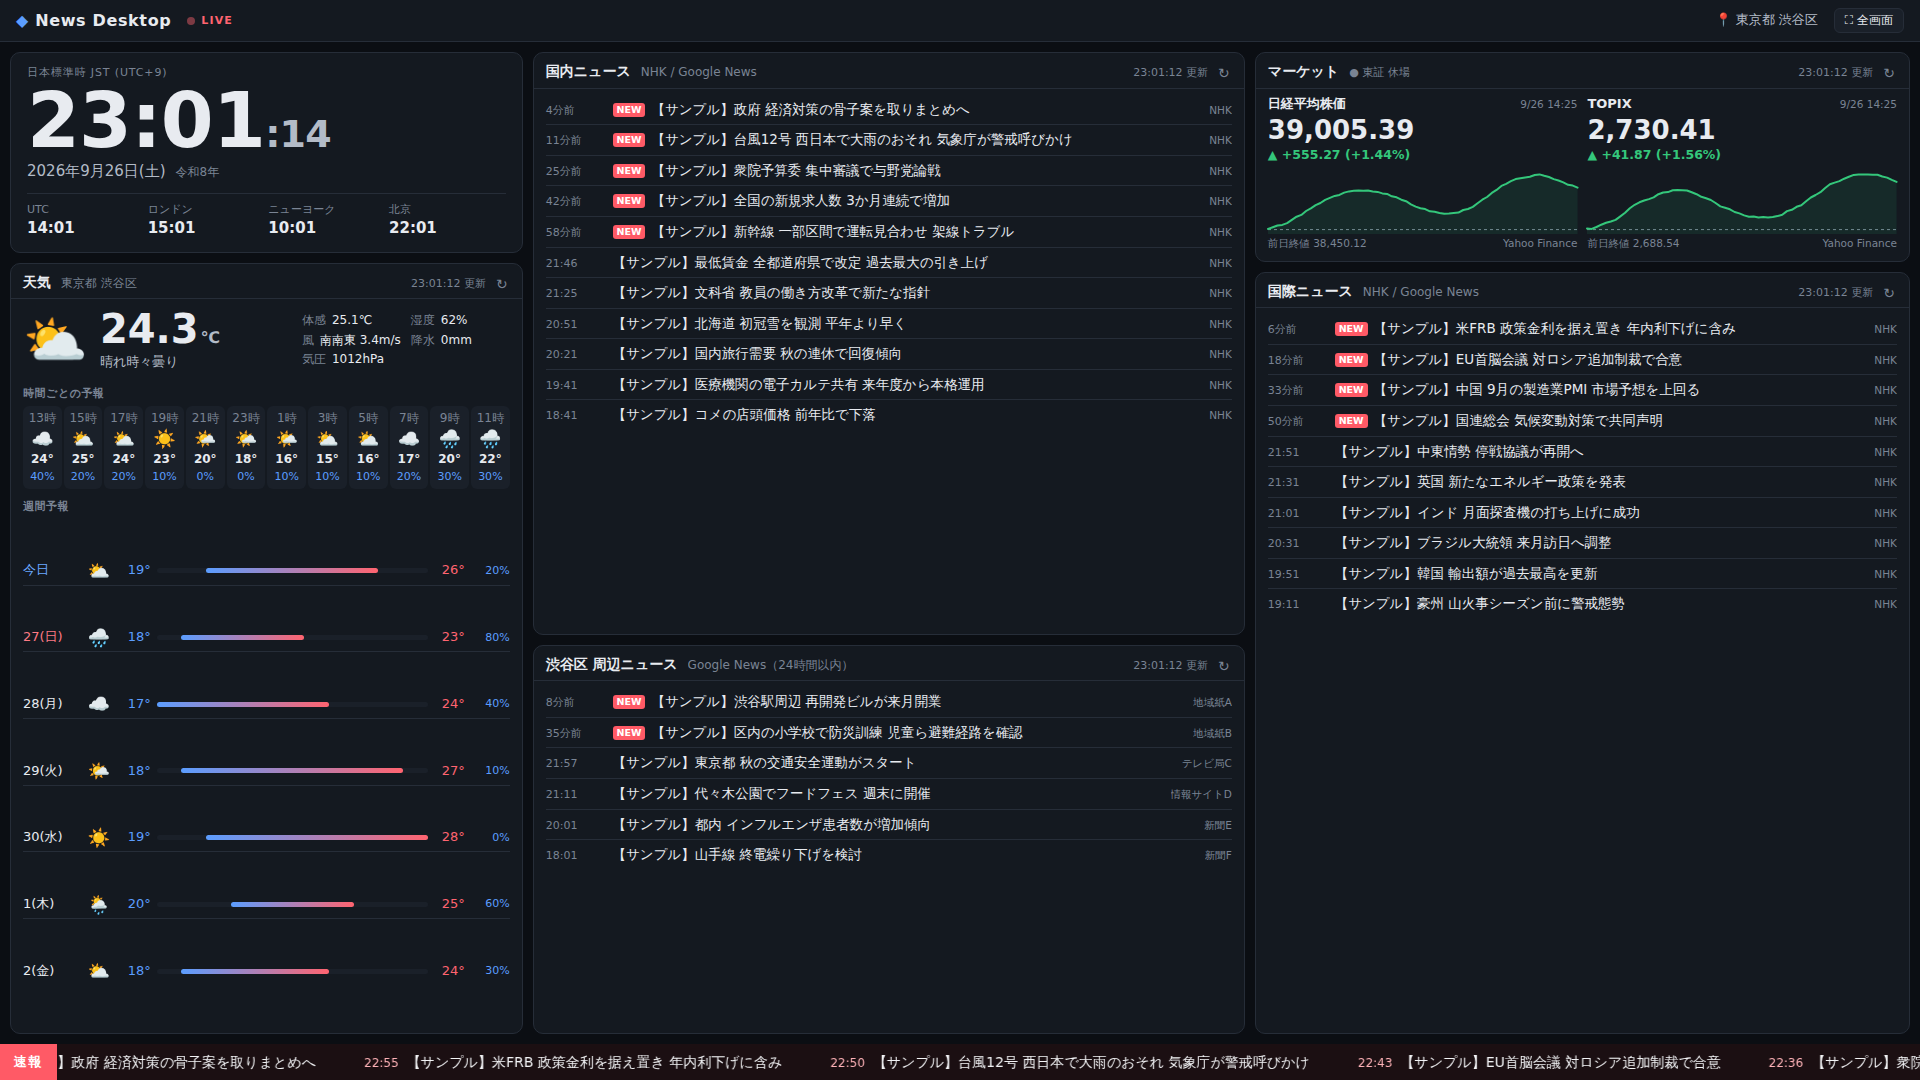
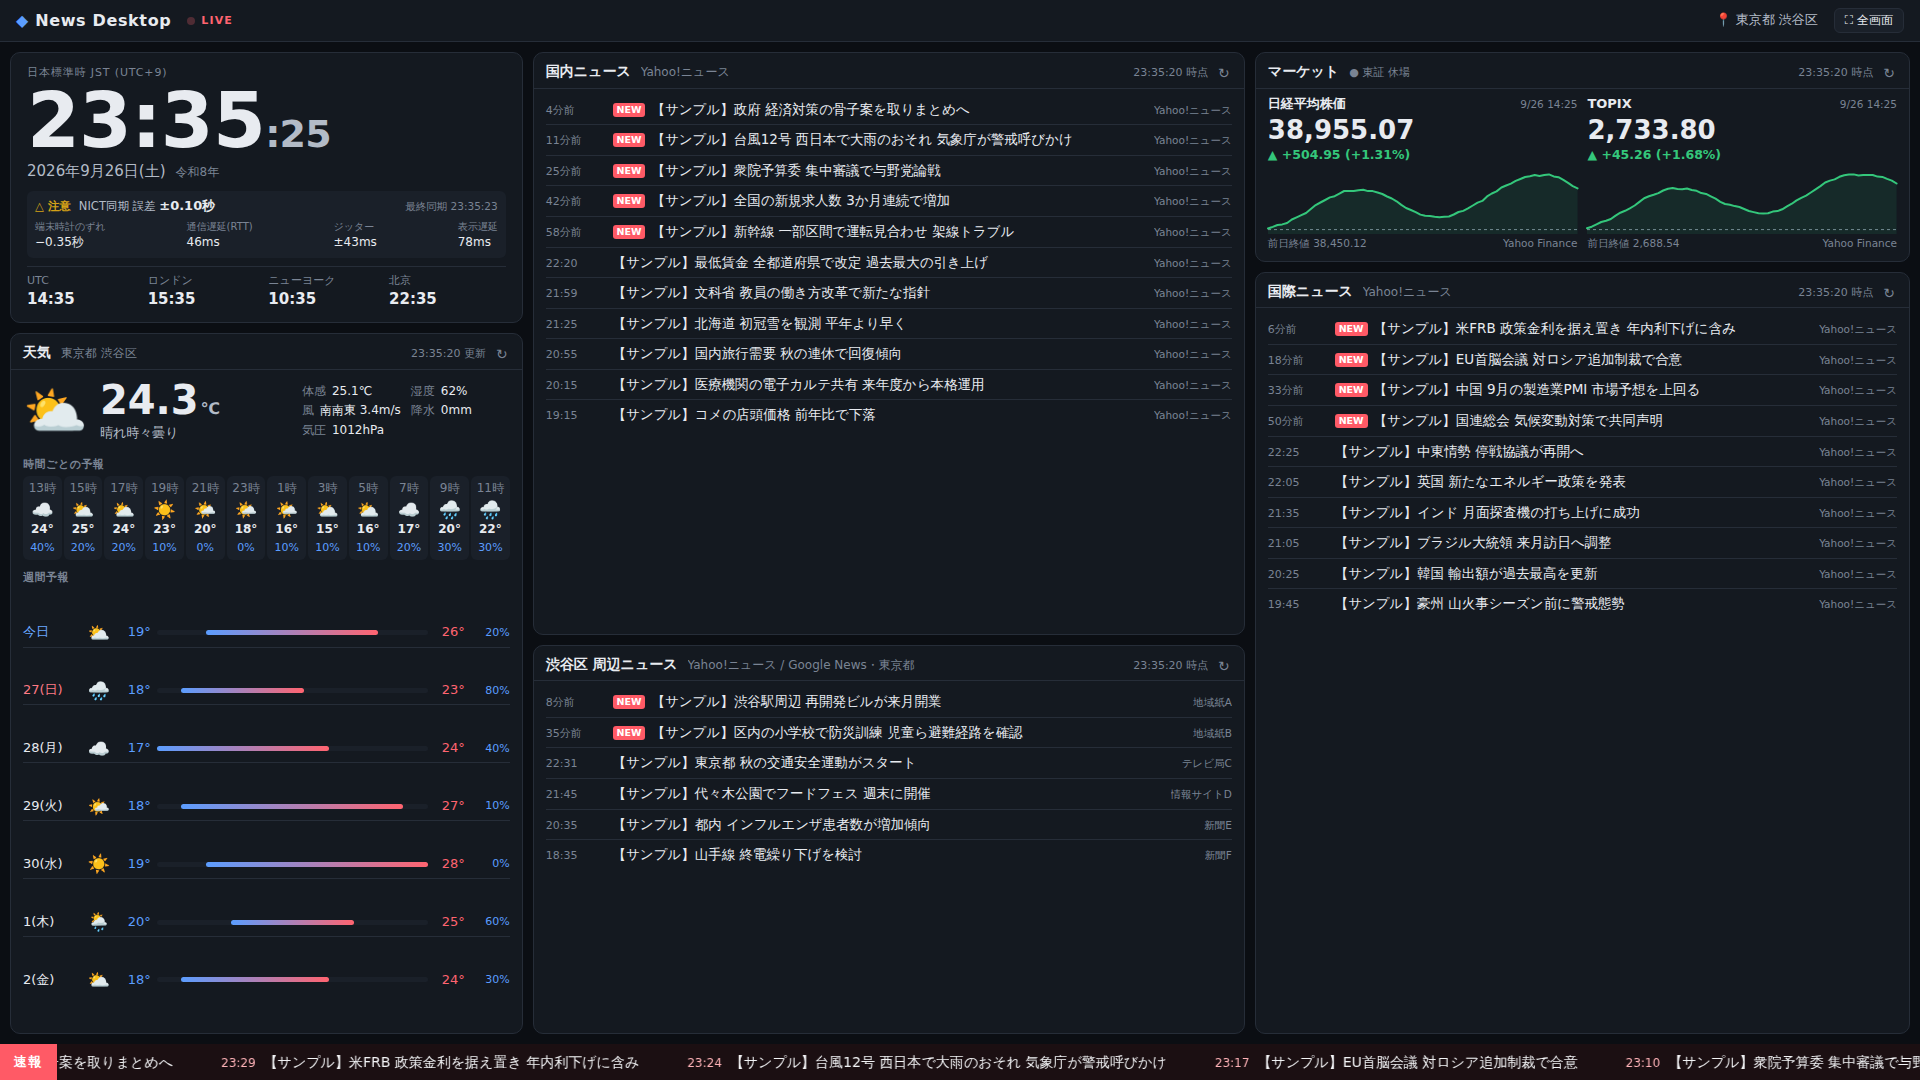
Sync clock to NICT JST and show accuracy, RTT, jitter and display lag
The clock now estimates the device clock offset against NICT (fallback
Akamai, then the HTTP Date header) using the NTP midpoint method, picks
the minimum-RTT sample of the last 8, and displays corrected JST with the
error bound, device drift, RTT, jitter and render lag.

Claude-Session: https://claude.ai/code/session_01YXyQNYPoXXym2MZrvJR5Sh

diff --git a/lib/timesync.ts b/lib/timesync.ts
@@ -1,0 +1,216 @@
+"use client";
+
+// 端末時計と日本標準時 (NICT) のずれを NTP と同じ考え方で推定する。
+//   送信時刻 t0 / 受信時刻 t1 (端末の単調時計) とサーバー時刻 S から
+//   offset = S - (t0 + t1) / 2, 往復遅延 RTT = t1 - t0, 誤差上限 = RTT / 2 + サーバー時刻の分解能
+// 直近のサンプルのうち RTT 最小のものを採用し (NTP の clock filter)、
+// サンプル間のばらつき (RMS) をジッターとして表示する。
+
+import { useEffect, useRef, useState } from "react";
+
+export type SyncSource = "NICT" | "Akamai" | "HTTP Date";
+
+type Sample = { offset: number; rtt: number; resolution: number; source: SyncSource; at: number };
+
+export type TimeSync = {
+  status: "syncing" | "synced" | "failed";
+  source: SyncSource | null;
+  /** 補正量: 正しい時刻 = 単調時計 (timeOrigin + performance.now()) + offset [ms] */
+  offset: number;
+  /** 端末の時計 (Date.now()) が正しい時刻よりどれだけ進んでいるか [ms] */
+  deviceDrift: number;
+  /** 表示時刻の誤差上限 ± [ms] */
+  accuracy: number;
+  rtt: number;
+  jitter: number;
+  samples: number;
+  lastSync: number | null;
+};
+
+const mono = () => performance.timeOrigin + performance.now();
+const WINDOW = 8;
+const INITIAL_SAMPLES = 4;
+const INTERVAL_MS = 60_000;
+
+// ---- 時刻ソース ----
+
+/** NICT の JSONP サービス。レスポンスは jsont({... "st": サーバー時刻(秒) ...}) */
+function nict(timeoutMs = 5000): Promise<Sample> {
+  return new Promise((resolve, reject) => {
+    const w = window as unknown as { jsont?: (d: { st: number }) => void };
+    const script = document.createElement("script");
+    const cleanup = () => {
+      clearTimeout(timer);
+      delete w.jsont;
+      script.remove();
+    };
+    const timer = setTimeout(() => {
+      cleanup();
+      reject(new Error("NICT timeout"));
+    }, timeoutMs);
+    let t0 = 0;
+    w.jsont = (d) => {
+      const t1 = mono();
+      cleanup();
+      if (typeof d?.st !== "number") return reject(new Error("NICT bad response"));
+      resolve({ offset: d.st * 1000 - (t0 + t1) / 2, rtt: t1 - t0, resolution: 1, source: "NICT", at: t1 });
+    };
+    script.onerror = () => {
+      cleanup();
+      reject(new Error("NICT load error"));
+    };
+    t0 = mono();
+    script.src = `https://ntp-a1.nict.go.jp/cgi-bin/jsont?${(Date.now() / 1000).toFixed(3)}`;
+    document.head.appendChild(script);
+  });
+}
+
+async function timed(url: string, init?: RequestInit) {
+  const ctrl = new AbortController();
+  const timer = setTimeout(() => ctrl.abort(), 5000);
+  try {
+    const t0 = mono();
+    const res = await fetch(url, { cache: "no-store", signal: ctrl.signal, ...init });
+    const t1 = mono();
+    if (!res.ok) throw new Error(`HTTP ${res.status}`);
+    return { res, t0, t1 };
+  } finally {
+    clearTimeout(timer);
+  }
+}
+
+/** Akamai の時刻サービス (ミリ秒精度、CORS 対応) */
+async function akamai(): Promise<Sample> {
+  const { res, t0, t1 } = await timed(`https://time.akamai.com/?ms&_=${Date.now()}`);
+  const s = parseFloat(await res.text());
+  if (!isFinite(s)) throw new Error("Akamai bad response");
+  return { offset: s * 1000 - (t0 + t1) / 2, rtt: t1 - t0, resolution: 1, source: "Akamai", at: t1 };
+}
+
+/** 最終手段: 配信元サーバーの Date ヘッダー (1 秒単位なので ±0.5 秒) */
+async function httpDate(): Promise<Sample> {
+  const { res, t0, t1 } = await timed(`${location.pathname}?_=${Date.now()}`, { method: "HEAD" });
+  const d = Date.parse(res.headers.get("date") ?? "");
+  if (isNaN(d)) throw new Error("no Date header");
+  return { offset: d + 500 - (t0 + t1) / 2, rtt: t1 - t0, resolution: 500, source: "HTTP Date", at: t1 };
+}
+
+async function sample(preferred: SyncSource | null): Promise<Sample> {
+  const all: [SyncSource, () => Promise<Sample>][] = [
+    ["NICT", nict],
+    ["Akamai", akamai],
+    ["HTTP Date", httpDate],
+  ];
+  // 一度成功したソースから試す
+  const order = preferred ? [...all.filter(([n]) => n === preferred), ...all.filter(([n]) => n !== preferred)] : all;
+  let err: unknown;
+  for (const [, fn] of order) {
+    try {
+      return await fn();
+    } catch (e) {
+      err = e;
+    }
+  }
+  throw err;
+}
+
+function summarize(samples: Sample[]): Omit<TimeSync, "status" | "lastSync"> {
+  const best = samples.reduce((a, b) => (b.rtt < a.rtt ? b : a));
+  const same = samples.filter((s) => s.source === best.source);
+  const jitter =
+    same.length > 1 ? Math.sqrt(same.reduce((sum, s) => sum + (s.offset - best.offset) ** 2, 0) / (same.length - 1)) : 0;
+  return {
+    source: best.source,
+    offset: best.offset,
+    deviceDrift: Date.now() - (mono() + best.offset),
+    accuracy: best.rtt / 2 + best.resolution,
+    rtt: best.rtt,
+    jitter,
+    samples: samples.length,
+  };
+}
+
+const INITIAL: TimeSync = {
+  status: "syncing",
+  source: null,
+  offset: 0,
+  deviceDrift: 0,
+  accuracy: Infinity,
+  rtt: 0,
+  jitter: 0,
+  samples: 0,
+  lastSync: null,
+};
+
+export function useTimeSync(): TimeSync {
+  const [state, setState] = useState<TimeSync>(INITIAL);
+  const samples = useRef<Sample[]>([]);
+
+  useEffect(() => {
+    let cancelled = false;
+    let busy = false;
+
+    const take = async (n: number) => {
+      if (busy) return;
+      busy = true;
+      try {
+        for (let i = 0; i < n && !cancelled; i++) {
+          try {
+            const s = await sample(samples.current.at(-1)?.source ?? null);
+            samples.current = [...samples.current, s].slice(-WINDOW);
+            if (!cancelled) setState({ status: "synced", lastSync: Date.now(), ...summarize(samples.current) });
+          } catch {
+            if (!cancelled && !samples.current.length) setState((p) => ({ ...p, status: "failed" }));
+          }
+          if (i < n - 1) await new Promise((r) => setTimeout(r, 1000));
+        }
+      } finally {
+        busy = false;
+      }
+    };
+
+    take(INITIAL_SAMPLES);
+    const id = setInterval(() => take(1), INTERVAL_MS);
+    // スリープ復帰などで単調時計が止まっていた可能性があるので取り直す
+    const onVisible = () => {
+      if (document.visibilityState === "visible") {
+        samples.current = [];
+        take(INITIAL_SAMPLES);
+      }
+    };
+    document.addEventListener("visibilitychange", onVisible);
+    return () => {
+      cancelled = true;
+      clearInterval(id);
+      document.removeEventListener("visibilitychange", onVisible);
+    };
+  }, []);
+
+  return state;
+}
+
+/**
+ * 補正済みの現在時刻を、秒の切り替わりに合わせて更新する。
+ * lag はタイマーが予定時刻からどれだけ遅れて描画に入ったか (表示遅延) の移動平均 [ms]。
+ */
+export function useCorrectedClock(offset: number): { now: Date | null; lag: number } {
+  const [state, setState] = useState<{ now: Date | null; lag: number }>({ now: null, lag: 0 });
+  const offsetRef = useRef(offset);
+  offsetRef.current = offset;
+
+  useEffect(() => {
+    let timer: ReturnType<typeof setTimeout>;
+    let lagAvg = 0;
+    const tick = (target: number | null) => {
+      const t = mono() + offsetRef.current;
+      if (target != null) lagAvg = lagAvg ? lagAvg * 0.8 + (t - target) * 0.2 : t - target;
+      setState({ now: new Date(t), lag: Math.max(0, lagAvg) });
+      const next = Math.floor(t / 1000) * 1000 + 1000;
+      timer = setTimeout(() => tick(next), next - t);
+    };
+    tick(null);
+    return () => clearTimeout(timer);
+  }, []);
+
+  return state;
+}

diff --git a/components/Clock.tsx b/components/Clock.tsx
@@ -1,6 +1,6 @@
 "use client";
 
-import { useNow } from "@/lib/hooks";
+import { useCorrectedClock, useTimeSync, type TimeSync } from "@/lib/timesync";
 
 const fmt = (d: Date, opts: Intl.DateTimeFormatOptions, locale = "ja-JP") =>
   new Intl.DateTimeFormat(locale, { timeZone: "Asia/Tokyo", ...opts }).format(d);
@@ -12,22 +12,74 @@ const WORLD = [
   { label: "北京", tz: "Asia/Shanghai" },
 ];
 
+const sec = (ms: number, digits = 2) => `${(ms / 1000).toFixed(digits)}秒`;
+const signed = (ms: number) => `${ms >= 0 ? "+" : "−"}${sec(Math.abs(ms))}`;
+const msStr = (ms: number) => `${Math.round(ms)}ms`;
+
+function SyncStatus({ sync, lag }: { sync: TimeSync; lag: number }) {
+  if (sync.status === "syncing" && !sync.samples)
+    return <div className="sync sync-wait">⟳ 日本標準時と同期中…（端末の時計で表示）</div>;
+  if (sync.status === "failed")
+    return <div className="sync sync-bad">⚠ 時刻サーバーに接続できません（端末の時計で表示・誤差不明）</div>;
+
+  // 表示誤差 = 同期誤差 (RTT/2 + 分解能) + 描画の遅れ
+  const total = sync.accuracy + lag;
+  const level = total < 100 ? "good" : total < 500 ? "warn" : "bad";
+  const levelLabel = level === "good" ? "✓ 高精度" : level === "warn" ? "△ 注意" : "⚠ 低精度";
+  const last = sync.lastSync ? fmt(new Date(sync.lastSync), { hour: "2-digit", minute: "2-digit", second: "2-digit" }) : "—";
+
+  return (
+    <div
+      className={`sync sync-${level}`}
+      title={`${sync.source} と ${sync.samples} 回計測（直近の最小遅延サンプルを採用）/ 最終同期 ${last}`}
+    >
+      <div className="sync-main">
+        <span className="sync-badge">{levelLabel}</span>
+        <span>
+          {sync.source}同期 誤差 <b>±{sec(total)}</b>
+        </span>
+        <span className="sync-last">最終同期 {last}</span>
+      </div>
+      <dl className="sync-grid">
+        <div>
+          <dt>端末時計のずれ</dt>
+          <dd>{signed(sync.deviceDrift)}</dd>
+        </div>
+        <div>
+          <dt>通信遅延(RTT)</dt>
+          <dd>{msStr(sync.rtt)}</dd>
+        </div>
+        <div>
+          <dt>ジッター</dt>
+          <dd>{sync.samples > 1 ? `±${msStr(sync.jitter)}` : "計測中"}</dd>
+        </div>
+        <div>
+          <dt>表示遅延</dt>
+          <dd>{msStr(lag)}</dd>
+        </div>
+      </dl>
+    </div>
+  );
+}
+
 export function Clock() {
-  const now = useNow(250);
+  const sync = useTimeSync();
+  const { now, lag } = useCorrectedClock(sync.offset);
   if (!now) return <section className="panel clock" />;
   const time = fmt(now, { hour: "2-digit", minute: "2-digit", second: "2-digit", hour12: false });
-  const [hm, sec] = [time.slice(0, 5), time.slice(6)];
+  const [hm, s] = [time.slice(0, 5), time.slice(6)];
   return (
     <section className="panel clock" aria-label="日本標準時">
       <div className="clock-label">日本標準時 JST (UTC+9)</div>
       <div className="clock-time">
         {hm}
-        <span className="clock-sec">:{sec}</span>
+        <span className="clock-sec">:{s}</span>
       </div>
       <div className="clock-date">
         {fmt(now, { year: "numeric", month: "long", day: "numeric", weekday: "short" })}
         <span className="clock-era">{fmt(now, { era: "long", year: "numeric" }, "ja-JP-u-ca-japanese")}</span>
       </div>
+      <SyncStatus sync={sync} lag={lag} />
       <div className="world">
         {WORLD.map((w) => (
           <div key={w.tz}>

diff --git a/app/globals.css b/app/globals.css
@@ -132,7 +132,19 @@ button { font: inherit; color: inherit; cursor: pointer; }
 .clock-sec { font-size: 0.5em; color: var(--ink-2); font-weight: 600; }
 .clock-date { font-size: 15px; color: var(--ink-2); display: flex; gap: 10px; align-items: baseline; }
 .clock-era { font-size: 12px; color: var(--muted); }
-.world { display: grid; grid-template-columns: repeat(4, 1fr); gap: 4px; margin-top: 10px; padding-top: 8px; border-top: 1px solid var(--line); }
+.sync { margin-top: 8px; padding: 6px 8px; border-radius: 6px; background: var(--panel-2); font-size: 11.5px; color: var(--ink-2); font-variant-numeric: tabular-nums; }
+.sync-main { display: flex; align-items: baseline; gap: 8px; flex-wrap: wrap; }
+.sync-main b { color: var(--ink); font-size: 13px; }
+.sync-badge { font-weight: 700; }
+.sync-good .sync-badge { color: var(--up); }
+.sync-warn .sync-badge, .sync-wait { color: #d4a017; }
+.sync-bad .sync-badge, .sync-bad { color: var(--down); }
+.sync-last { margin-left: auto; color: var(--muted); font-size: 10.5px; }
+.sync-grid { display: grid; grid-template-columns: repeat(4, auto); justify-content: space-between; gap: 2px 8px; margin: 4px 0 0; }
+.sync-grid div { display: flex; flex-direction: column; }
+.sync-grid dt { color: var(--muted); font-size: 10px; }
+.sync-grid dd { margin: 0; color: var(--ink); font-size: 12px; }
+.world { display: grid; grid-template-columns: repeat(4, 1fr); gap: 4px; margin-top: 8px; padding-top: 6px; border-top: 1px solid var(--line); }
 .world div { display: flex; flex-direction: column; font-size: 11px; color: var(--muted); }
 .world b { font-size: 15px; color: var(--ink); font-variant-numeric: tabular-nums; }
 
@@ -146,7 +158,7 @@ button { font: inherit; color: inherit; cursor: pointer; }
 .wx-stats div { display: flex; gap: 6px; }
 .wx-stats dt { color: var(--muted); white-space: nowrap; }
 .wx-stats dd { margin: 0; white-space: nowrap; font-variant-numeric: tabular-nums; }
-.wx-hourly { display: grid; grid-auto-flow: column; grid-auto-columns: minmax(40px, 1fr); overflow-x: auto; scrollbar-width: none; gap: 2px; text-align: center; font-size: 12px; }
+.wx-hourly { display: grid; grid-auto-flow: column; grid-auto-columns: minmax(36px, 1fr); overflow-x: auto; scrollbar-width: none; gap: 2px; text-align: center; font-size: 12px; }
 .wx-hourly div { display: flex; flex-direction: column; align-items: center; gap: 1px; padding: 4px 0; background: var(--panel-2); border-radius: 6px; }
 .wx-sm-icon { font-size: 18px; line-height: 1.2; }
 .pop { color: var(--accent); font-size: 11px; font-variant-numeric: tabular-nums; }
